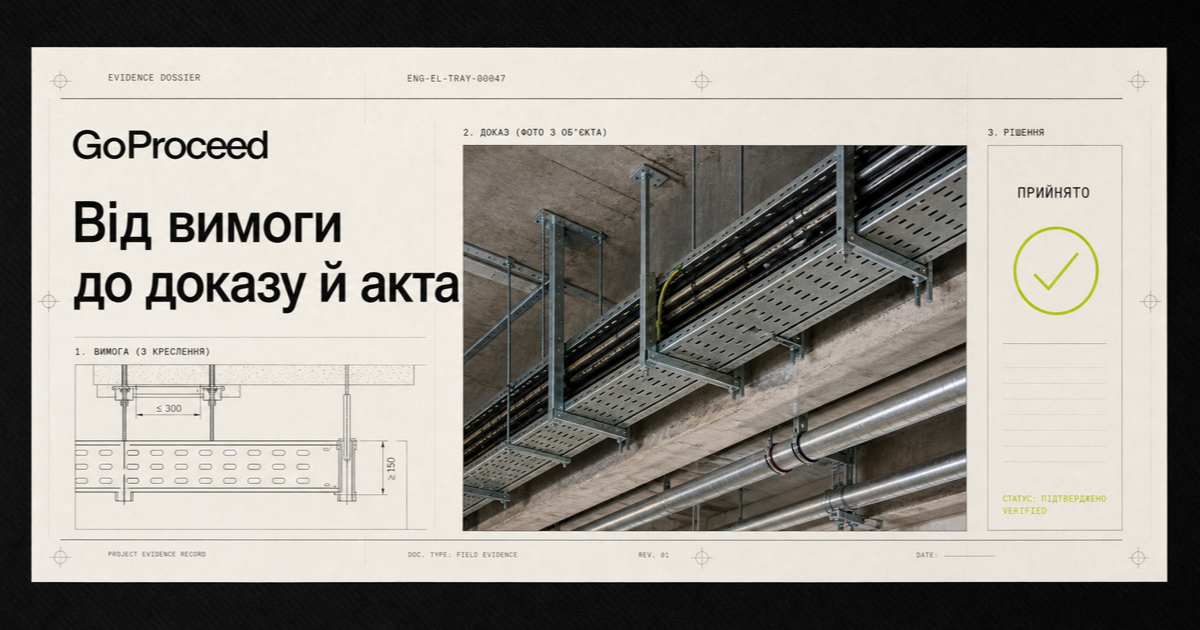
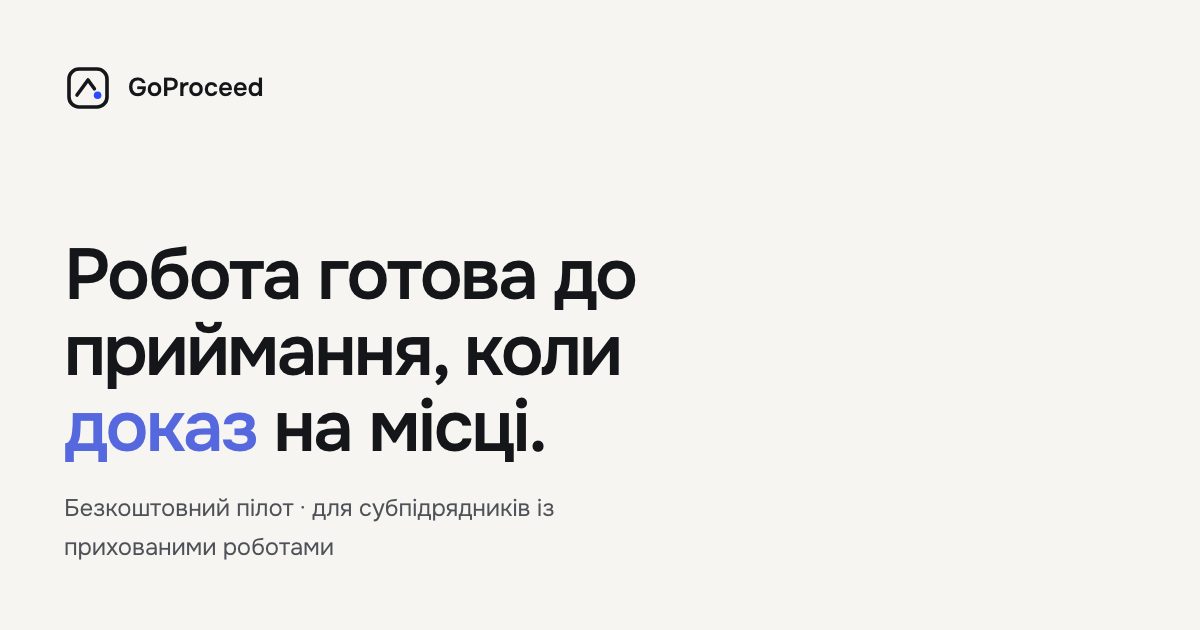
test(landing): browser QA at seven widths and reduced motion; og.png from /og

diff --git a/apps/landing/app/og/page.tsx b/apps/landing/app/og/page.tsx
@@ -1,0 +1,19 @@
+import { landingContent } from "../../content/landing-content";
+import { BrandMark } from "../../components/brand-mark";
+
+export const metadata = { robots: { index: false } };
+
+export default function OgPage() {
+  const h = landingContent.hero;
+  return (
+    <main className="relative grid h-[630px] w-[1200px] content-between bg-canvas p-16">
+      <p className="flex items-center gap-4 text-h1 font-semibold text-ink"><BrandMark className="size-12" />{landingContent.nav.brand}</p>
+      <div>
+        <h1 className="display max-w-[16ch] text-[72px] leading-[1.05] tracking-tightest text-ink">
+          {h.title.slice(0, h.title.indexOf(h.titleAccent))}<span className="text-accent">{h.titleAccent}</span>{h.title.slice(h.title.indexOf(h.titleAccent) + h.titleAccent.length)}
+        </h1>
+        <p className="mt-6 max-w-[40ch] text-[24px] leading-relaxed text-ink-secondary">{h.pill.badge} · {h.pill.text}</p>
+      </div>
+    </main>
+  );
+}

diff --git a/apps/landing/app/globals.css b/apps/landing/app/globals.css
@@ -21,6 +21,7 @@
  * as real CSS into the production bundle. */
 @source not "../tests";
 @source not "../.next";
+@source not "../qa";
 
 /* The display face is loaded here and nowhere else. It is marketing-only —
  * never below --text-mkt-display-3, never inside the application shell, never
